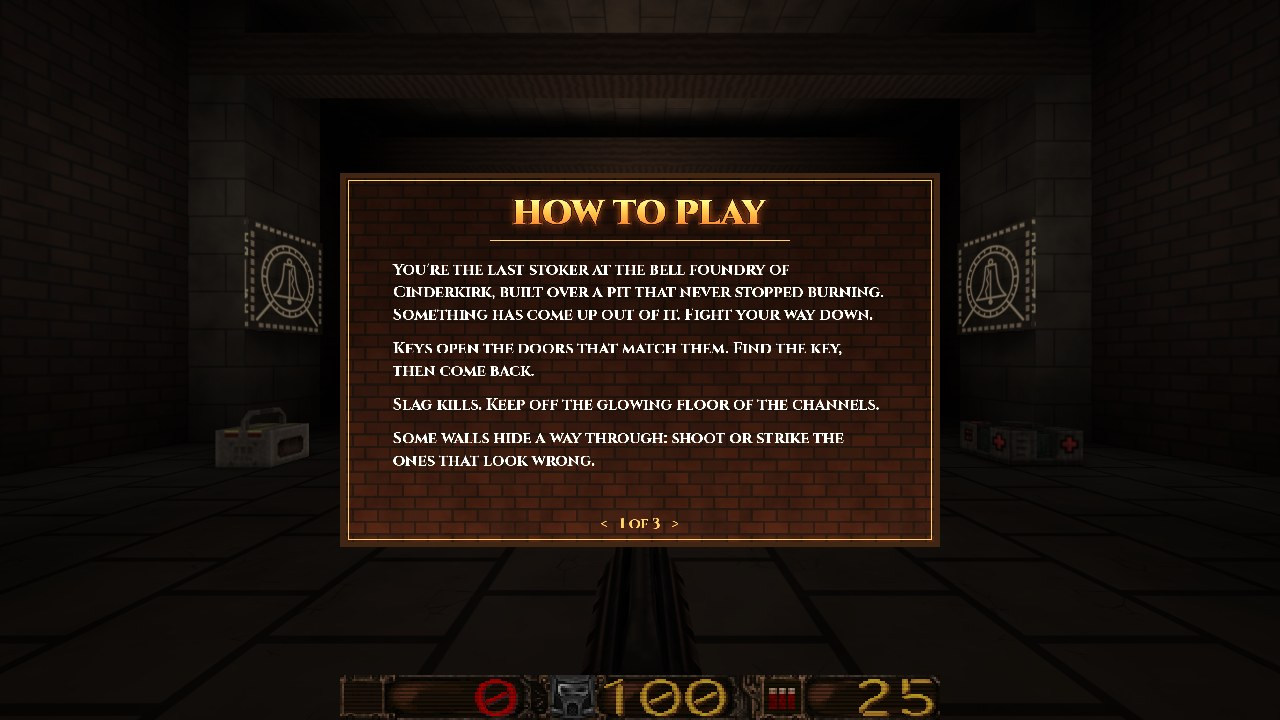
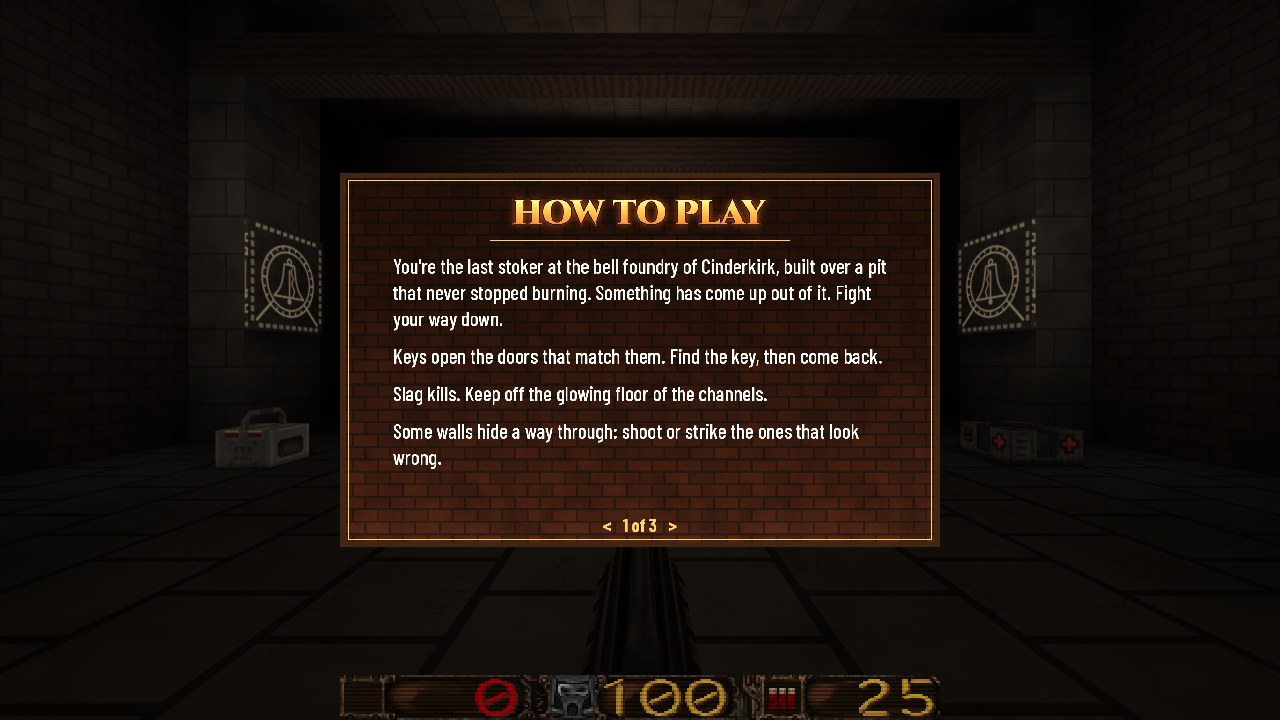
Easier to read How to Play pages, in Barlow Condensed
Claude-Session: https://claude.ai/code/session_01N6AAHtUEZVDgM41LzJK3wL

Changed region(s): [[0.3125, 0.3667, 0.6875, 0.6722], [0.4688, 0.7028, 0.5312, 0.7333]]

diff --git a/tools/menu_art.py b/tools/menu_art.py
@@ -21,6 +21,9 @@ HERE = os.path.dirname(os.path.abspath(__file__))
 FONTS = os.path.join(HERE, "..", "assets_src", "fonts")
 HEAVY = os.path.join(FONTS, "cinzel-latin-900-normal.woff")
 BOLD = os.path.join(FONTS, "cinzel-latin-700-normal.woff")
+# Running text: Barlow Condensed, which stays readable small and on a TV.
+TEXT = os.path.join(FONTS, "barlow-condensed-latin-500-normal.woff")
+TEXT_BOLD = os.path.join(FONTS, "barlow-condensed-latin-700-normal.woff")
 
 # Menu titles: name -> text. Width follows the text; height is 24.
 TITLES = {
@@ -240,22 +243,22 @@ def help_page(tex_dir, n, heading, rows):
     page.alpha_composite(head, (0, 8 * SCALE))
     d.line((80 * SCALE, 36 * SCALE, 240 * SCALE, 36 * SCALE), fill=(214, 150, 70, 255), width=SCALE // 2)
 
-    body = ImageFont.truetype(BOLD, int(8.5 * SCALE))
-    label = ImageFont.truetype(HEAVY, int(8.5 * SCALE))
+    body = ImageFont.truetype(TEXT, int(11 * SCALE))
+    label = ImageFont.truetype(TEXT_BOLD, int(11 * SCALE))
     ink, gold = (236, 222, 200, 255), (246, 176, 82, 255)
-    y = 46 * SCALE
+    y = 43 * SCALE
     if rows and rows[0][0] is None:
         for _, text in rows:
             for line in wrap(d, text, body, 264 * SCALE):
                 d.text((28 * SCALE, y), line, font=body, fill=ink)
-                y += 12 * SCALE
+                y += 14 * SCALE
             y += 6 * SCALE
     else:
         for name, text in rows:
-            d.text((150 * SCALE, y), name.upper(), font=label, fill=gold, anchor="ra")
+            d.text((150 * SCALE, y), name, font=label, fill=gold, anchor="ra")
             d.text((162 * SCALE, y), text, font=body, fill=ink)
-            y += 12 * SCALE
-    foot = ImageFont.truetype(BOLD, 8 * SCALE)
+            y += 13 * SCALE
+    foot = ImageFont.truetype(TEXT_BOLD, 10 * SCALE)
     d.text((W // 2, H - 18 * SCALE), f"<   {n + 1} of {len(HELP)}   >", font=foot,
            fill=(214, 150, 70, 255), anchor="ma")
     return page.convert("RGB")

diff --git a/CREDITS.md b/CREDITS.md
@@ -19,6 +19,7 @@ Copyright © 2026 The LinuxGroove team. Cinderkirk's own code is under the GNU G
 - World textures, the menu art, the console background, the icon and the first level are Cinderkirk's own, made for it in Blender and Python (`assets_src/`, `tools/`, `maps_src/`).
 - Stand-ins until Cinderkirk's own are made: the creature, weapon and item models, sounds, status bar, small fonts and the ammo and health boxes are from **LibreQuake** (BSD-3-Clause, see `build/librequake/COPYING.LibreQuake` after a build), fetched at a pinned commit by `tools/librequake.sh` and never stored here.
 - Menu lettering in **Cinzel** by Natanael Gama (SIL Open Font License 1.1, `assets_src/fonts/OFL-Cinzel.txt`).
+- Help text in **Barlow Condensed** by The Barlow Project Authors (SIL Open Font License 1.1, `assets_src/fonts/OFL-BarlowCondensed.txt`).
 - The LinuxGroove Games splash (`gfx/splash.png`) is shared by every LinuxGroove game.
 
 ## Tools
